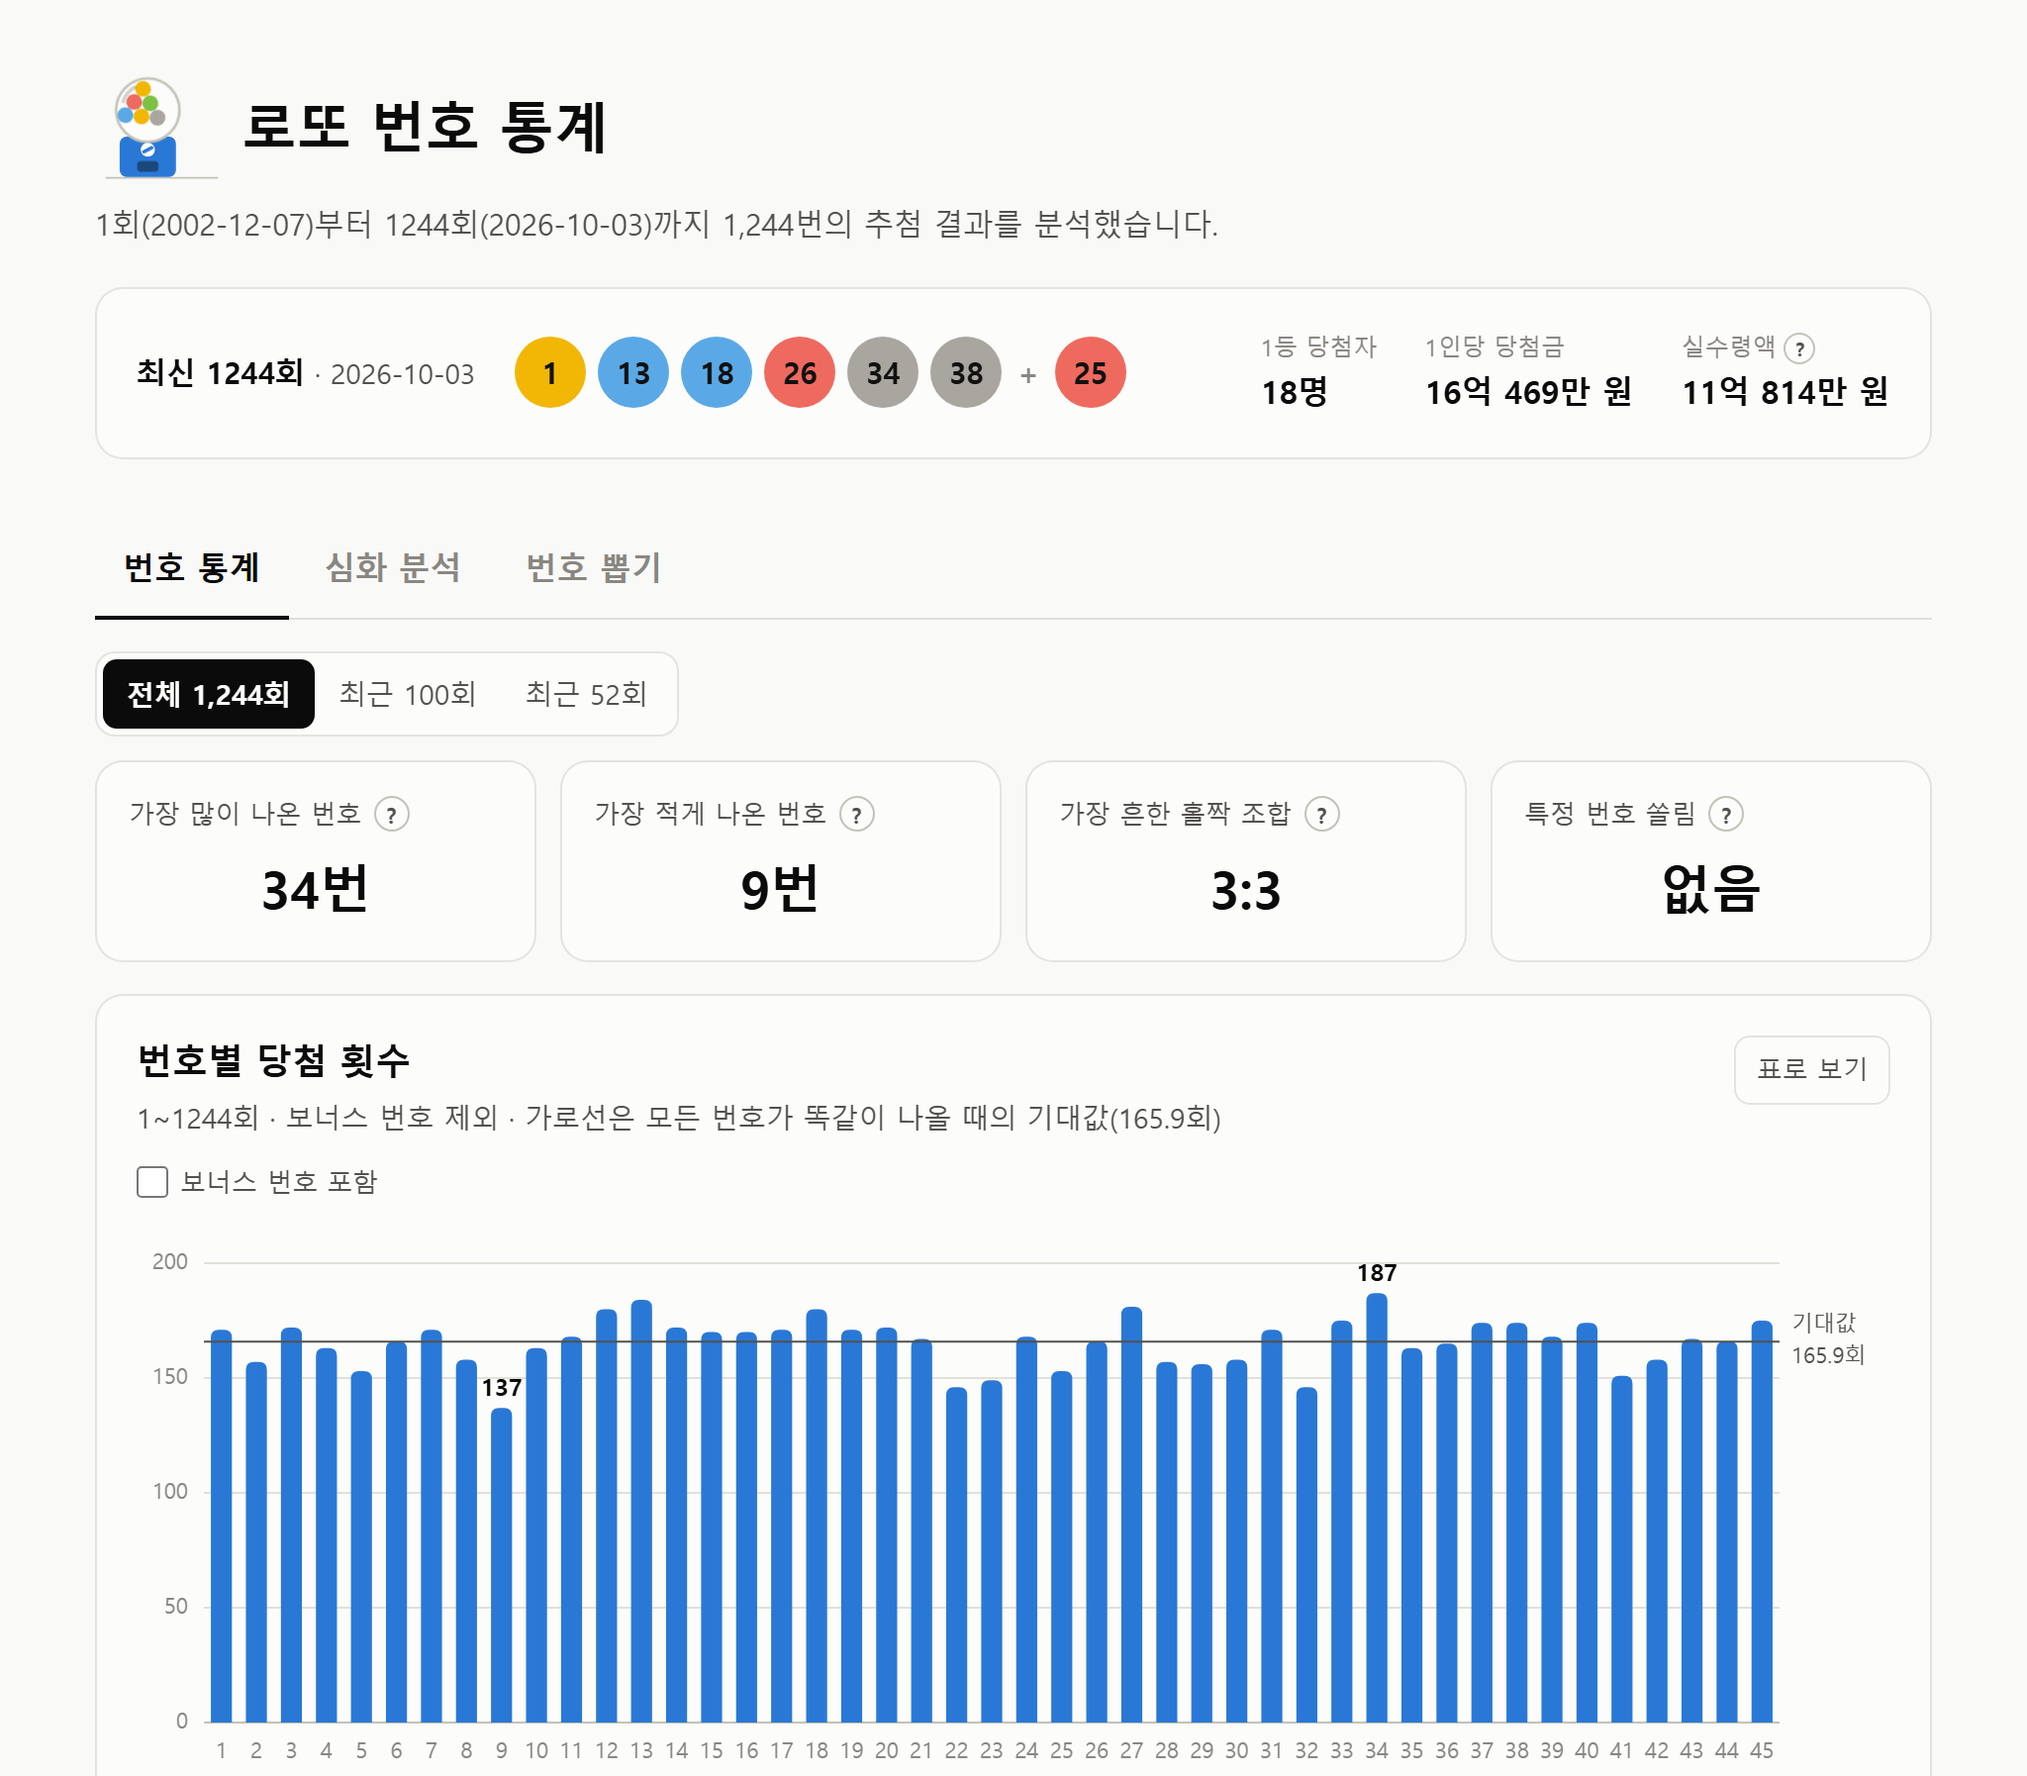
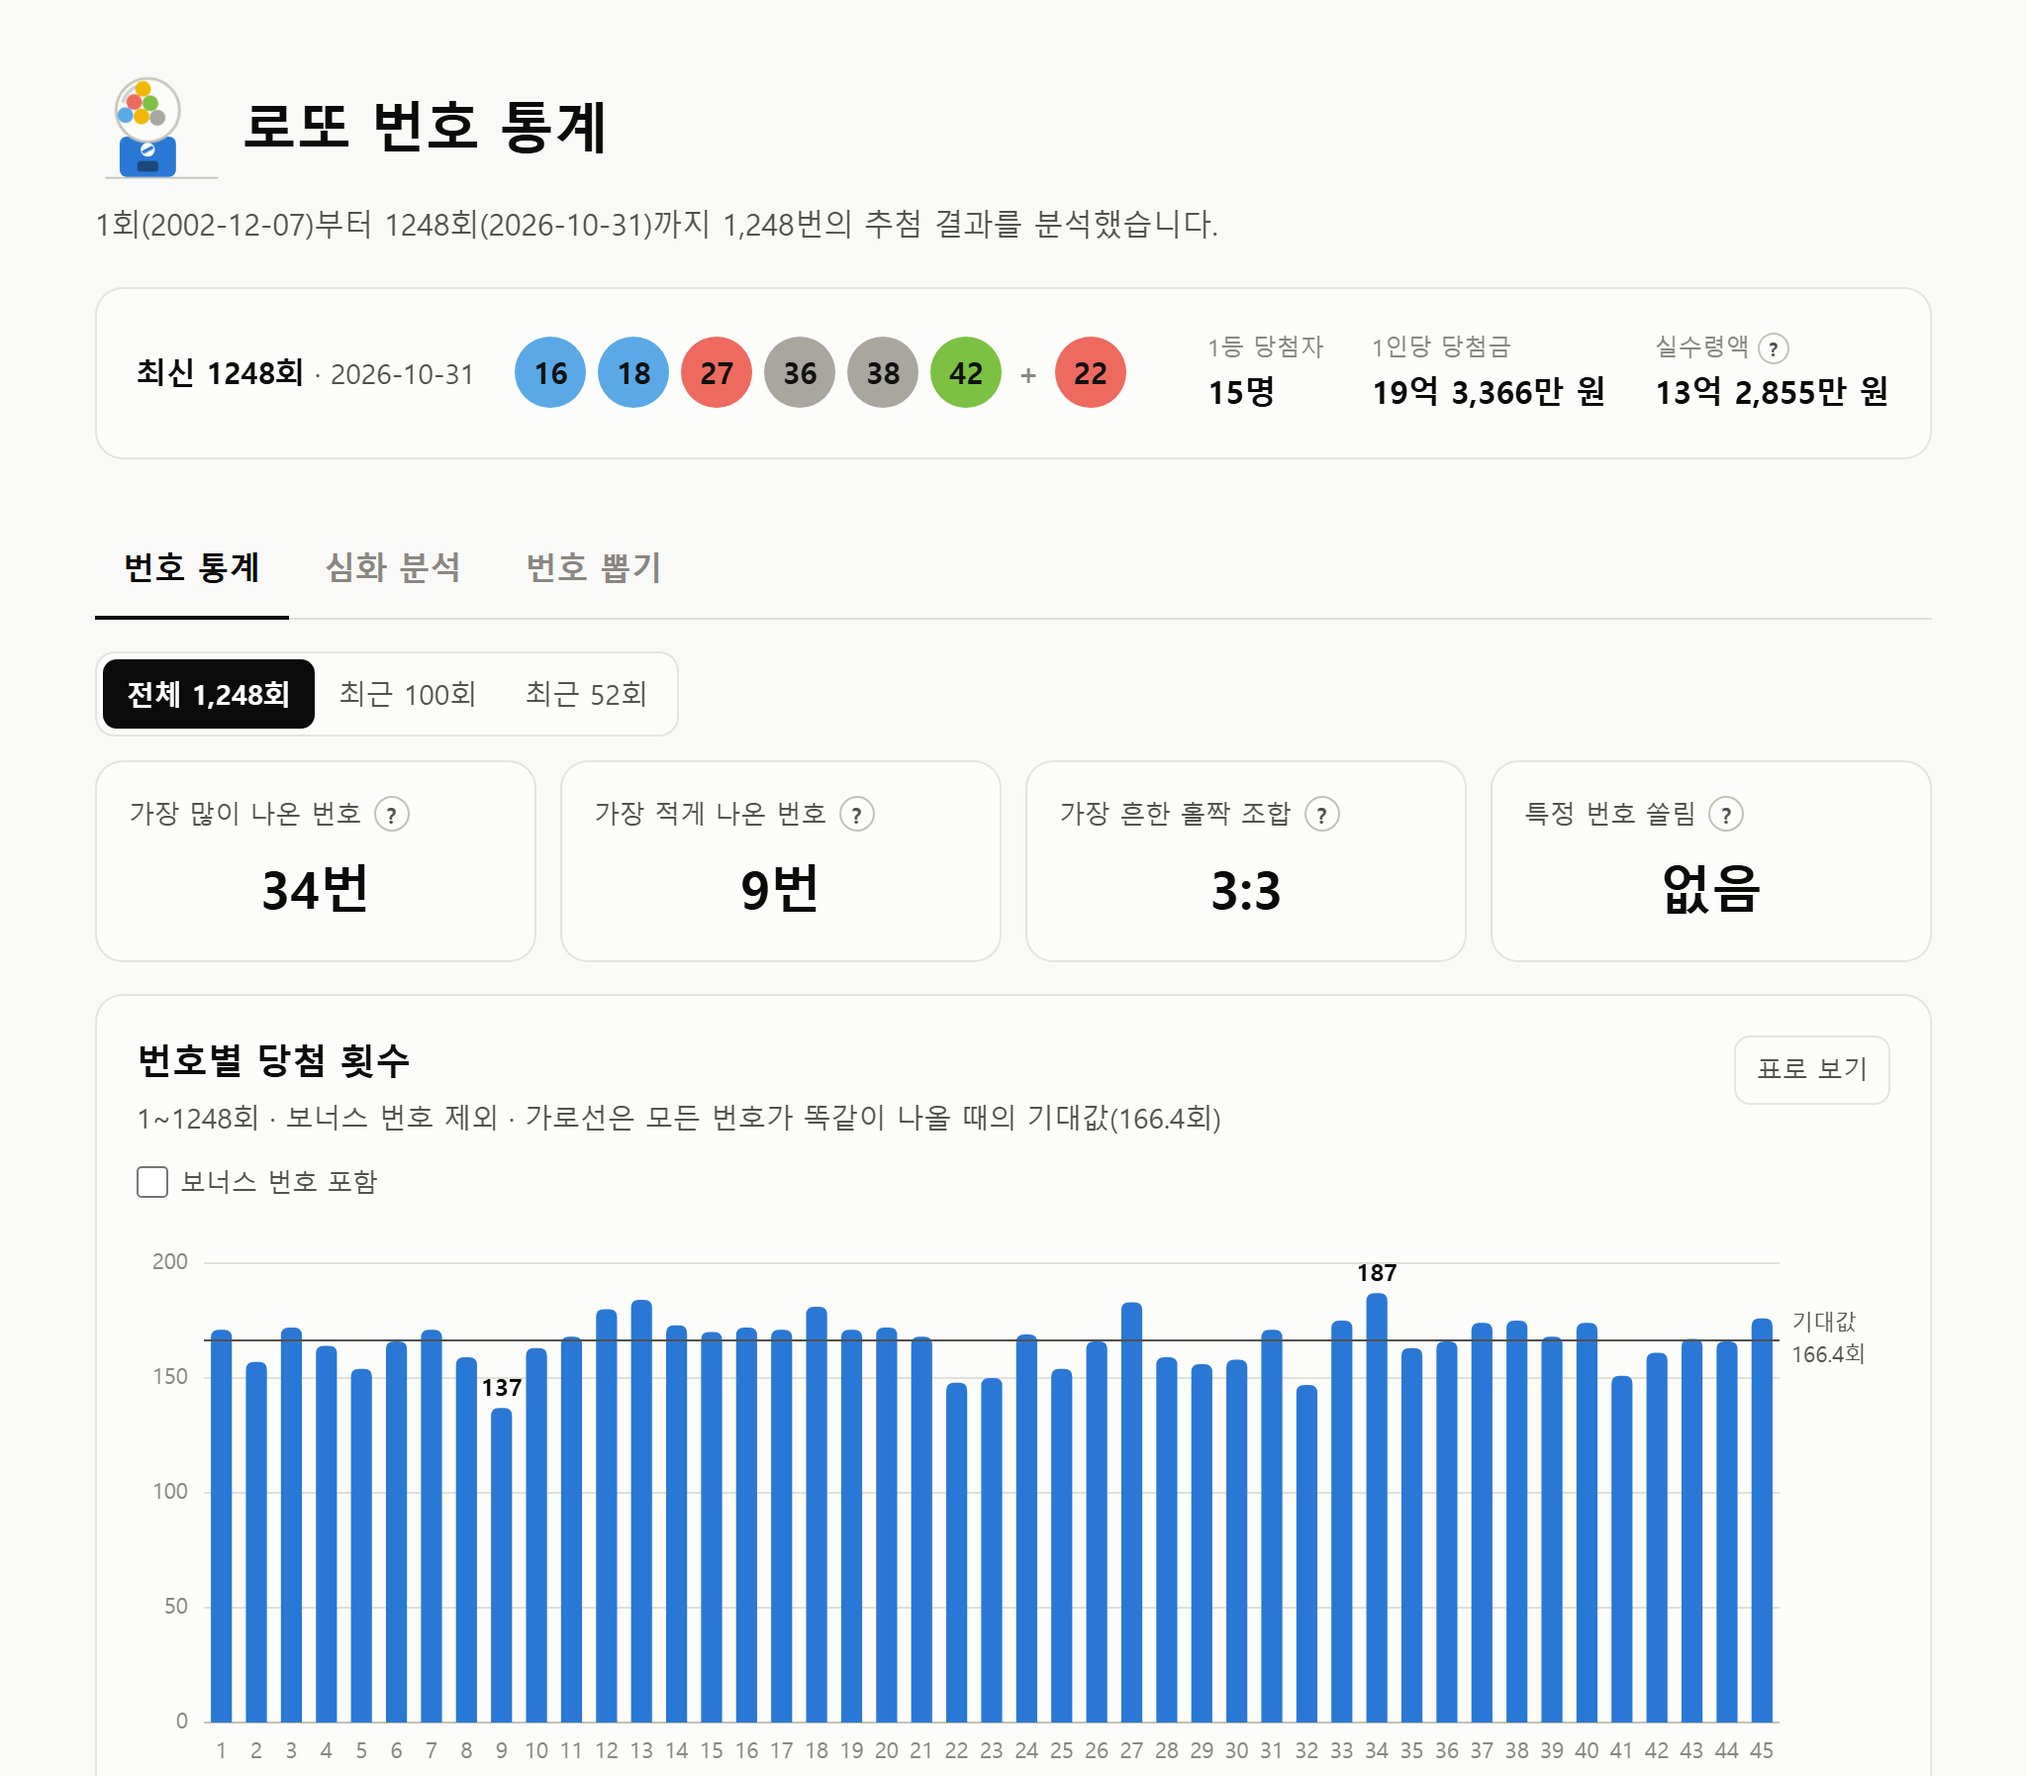
README를 1248회 기준으로 갱신
- 분석 결과 표와 번호 패턴 표를 1~1248회 기준으로 다시 계산
- 번호 뽑기 근거 수치 갱신 (연속 번호 쌍 3개 이상 1.43배 → 1.41배)
- 스크린샷 11장을 1248회 기준으로 다시 찍음
- 소개에 번호 뽑기 언급 추가, 자동 갱신 요청 횟수 표기를 실제(실행당 3번)에 맞춤

diff --git a/README.md b/README.md
@@ -1,7 +1,7 @@
 # 로또 6/45 번호 통계
 
 동행복권 로또 6/45의 1회부터 최신 회차까지 당첨번호를 수집해 번호별 출현 빈도, 홀짝·고저 비율, 연속 번호, 끝수, 이월수,
-함께 나온 번호 쌍 등을 이론 확률과 비교 분석하고, 그 결과를 웹페이지로 보여줍니다.
+함께 나온 번호 쌍 등을 이론 확률과 비교 분석하고, 그 결과를 웹페이지로 보여줍니다. 가챠 추첨기로 번호를 뽑아 볼 수도 있습니다.
 매주 GitHub Actions가 새 회차를 자동으로 반영합니다.
 
 **웹페이지: [pcw7.github.io/lotto-stats](https://pcw7.github.io/lotto-stats/)**
@@ -11,7 +11,7 @@
   <img src="screenshots/page-light.png" alt="웹페이지 번호 통계 탭: 최신 회차 당첨번호, 요약 지표, 번호별 당첨 횟수 차트">
 </picture>
 
-<sub>화면은 1244회 기준입니다. 최신 결과는 웹페이지에서 볼 수 있습니다.</sub>
+<sub>화면은 1248회 기준입니다. 최신 결과는 웹페이지에서 볼 수 있습니다.</sub>
 
 ## 웹페이지 기능
 
@@ -61,7 +61,7 @@
 **가챠 추첨기**를 누르면 손잡이가 돌고 구슬이 섞인 뒤, 1~45에서 무작위로 뽑은 번호 6개가 하나씩 굴러 나옵니다. 제목 옆 추첨기를 눌러도 이 탭으로 와서 번호를 뽑습니다.
 어떤 번호든 1등 확률은 8,145,060분의 1로 같아서, 통계로 "잘 나올 번호"를 고르지는 않습니다.
 
-- **많이 고르는 모양 피하기**: 1등 당첨금은 당첨자끼리 나눠 가집니다. 회차별 판매 게임 수로 "모두 무작위로 골랐다면 나왔을 1등 수"를 계산해 실제 1등 수와 비교하면, 전체는 1.00배인데 12 이하 번호가 4개 이상인 회차는 1.23배, 연속 번호 쌍이 3개 이상인 회차는 1.43배였습니다. 이 모양이 나오면 다시 뽑아서, 당첨 확률은 그대로 두고 당첨됐을 때 나눠 가질 사람이 적을 가능성을 높입니다. 걸러지는 조합은 전체의 4.6%뿐입니다.
+- **많이 고르는 모양 피하기**: 1등 당첨금은 당첨자끼리 나눠 가집니다. 회차별 판매 게임 수로 "모두 무작위로 골랐다면 나왔을 1등 수"를 계산해 실제 1등 수와 비교하면, 전체는 1.00배인데 12 이하 번호가 4개 이상인 회차는 1.23배, 연속 번호 쌍이 3개 이상인 회차는 1.41배였습니다. 이 모양이 나오면 다시 뽑아서, 당첨 확률은 그대로 두고 당첨됐을 때 나눠 가질 사람이 적을 가능성을 높입니다. 걸러지는 조합은 전체의 4.6%뿐입니다.
 - **뽑은 번호**: 최근 5게임을 보여줍니다.
 
 <picture>
@@ -84,29 +84,29 @@
   </tr>
 </table>
 
-## 분석 결과 (1~1243회 기준)
+## 분석 결과 (1~1248회 기준)
 
 | 항목 | 결과 |
 |---|---|
-| 가장 많이 나온 번호 | 34번 (186회) |
+| 가장 많이 나온 번호 | 34번 (187회) |
 | 가장 적게 나온 번호 | 9번 (137회) |
-| 번호당 기대값 | 165.7회 |
-| 카이제곱 검정 | 29.3 (자유도 44, 유의수준 5%의 기준값 60.48보다 작음) |
-| 가장 흔한 홀짝 조합 | 3:3 (33.3%, 이론 확률 33.5%) |
-| 가장 많이 함께 나온 번호 쌍 | 11·21 (34회, 한 쌍의 기대값 18.8회) |
+| 번호당 기대값 | 166.4회 |
+| 카이제곱 검정 | 29.2 (자유도 44, 유의수준 5%의 기준값 60.48보다 작음) |
+| 가장 흔한 홀짝 조합 | 3:3 (33.2%, 이론 확률 33.5%) |
+| 가장 많이 함께 나온 번호 쌍 | 11·21 (34회, 한 쌍의 기대값 18.9회) |
 
-가장 많이 나온 번호와 가장 적게 나온 번호는 49회 차이가 나서 커 보이지만, 카이제곱 검정으로 보면 무작위 추첨에서 자연스럽게 생기는 정도의 차이입니다.
+가장 많이 나온 번호와 가장 적게 나온 번호는 50회 차이가 나서 커 보이지만, 카이제곱 검정으로 보면 무작위 추첨에서 자연스럽게 생기는 정도의 차이입니다.
 
 번호 패턴도 실제 비율이 이론 확률과 거의 같습니다. 차트의 모든 구간을 비교해도 가장 큰 차이가 2.2%p(합계 141~160)입니다.
 
 | 패턴 | 실제 | 이론 |
 |---|---|---|
 | 번호 6개 합계의 평균 | 138.3 | 138 |
-| 연속 번호가 하나라도 있는 회차 | 51.7% | 52.9% |
-| 가장 흔한 고저 조합 (낮은 번호 3개·높은 번호 3개) | 33.0% | 33.5% |
+| 연속 번호가 하나라도 있는 회차 | 51.8% | 52.9% |
+| 가장 흔한 고저 조합 (낮은 번호 3개·높은 번호 3개) | 32.9% | 33.5% |
 | 끝자리가 같은 번호가 있는 회차 | 78.1% | 79.0% |
 | 직전 회차 번호가 1개 이상 다시 나온 회차 (이월수) | 61.4% | 59.9% |
-| 직전 번호의 ±1이 1개 이상 나온 회차 (이웃수) | 77.6% | 78.7% |
+| 직전 번호의 ±1이 1개 이상 나온 회차 (이웃수) | 77.5% | 78.7% |
 
 이론 확률은 공식으로 계산하고, 가능한 조합 8,145,060개를 모두 세어 보거나 모의실험을 돌려 맞는지 확인했습니다.
 매 회차 추첨은 이전 결과와 상관없이 독립적이므로, 과거 출현 빈도나 패턴으로 다음 당첨번호를 예측할 수는 없습니다.
@@ -145,7 +145,7 @@ python build_site.py   # 웹페이지 생성 → docs/index.html
 워크플로는 [`.github/workflows/update-lotto.yml`](.github/workflows/update-lotto.yml)에 있습니다.
 레포의 **Actions 탭 → 로또 통계 갱신 → Run workflow**로 바로 실행할 수도 있습니다.
 
-- 동행복권은 해외 IP(GitHub 서버)의 연속 요청을 막습니다. 그래서 지난 데이터를 암호화한 `lotto.csv.enc`를 레포에 보관하고, Actions는 이를 복호화한 뒤 새 회차만 받습니다. (요청 1~2번)
+- 동행복권은 해외 IP(GitHub 서버)의 연속 요청을 막습니다. 그래서 지난 데이터를 암호화한 `lotto.csv.enc`를 레포에 보관하고, Actions는 이를 복호화한 뒤 새 회차만 받습니다. (robots.txt 확인을 포함해 실행 한 번에 요청 3번)
 - 암호 키는 레포 Settings → Secrets의 `LOTTO_DATA_KEY`에 있습니다. 원본 데이터는 공개되지 않습니다.
 - Actions가 커밋을 추가하므로, 로컬에서 작업하기 전에 `git pull`을 먼저 하세요. `docs/`와 `lotto.csv.enc`는 Actions가 관리하므로 로컬에서 커밋하지 않습니다.
 - 키를 바꾸거나 잃어버렸다면, 로컬에서 `collect.py`로 데이터를 최신으로 맞춘 뒤 새 키를 만들어 `LOTTO_DATA_KEY` 환경 변수로 `python data_crypt.py encrypt`를 실행하고, 같은 키를 `gh secret set LOTTO_DATA_KEY`로 등록한 다음 `lotto.csv.enc`를 커밋하세요.
